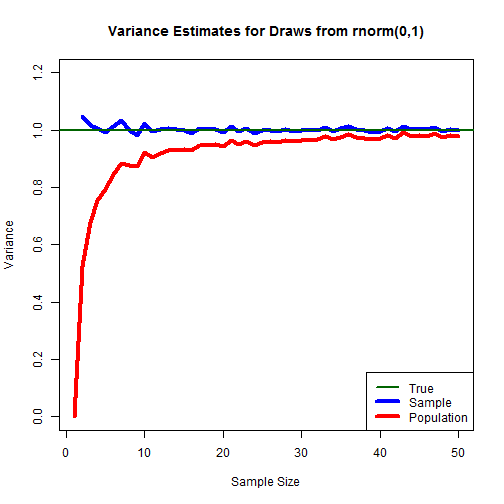
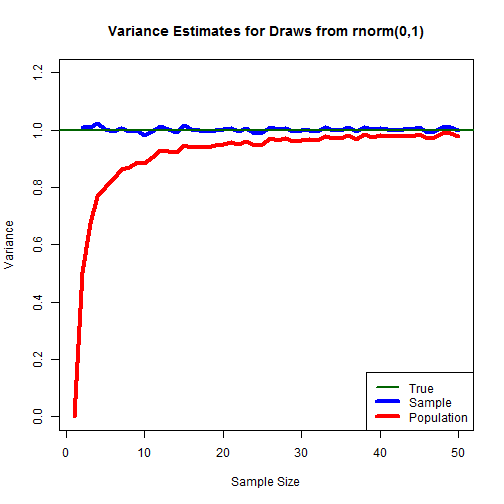
Fixed echo=FALSE

diff --git a/CheckSDPopSamp_v001.html b/CheckSDPopSamp_v001.html
@@ -221,6 +221,23 @@ myVarPop &lt;- rep(0,myMax)
 
 <p>Next we loop to pull 1:myMax draws, each taken myDraws number of times, and calculate the resulting standard deviations and variances on a population and sample basis.  </p>
 
+<pre><code class="r">for (intCtr in 1:myMax) {
+
+    for (intCtr2 in 1:myDraws) {
+        a &lt;- rnorm(intCtr,mean=0,sd=1)
+        sdSam[intCtr2] &lt;- sd(a)
+        sdPop[intCtr2] &lt;- sd(c(a,mean(a)))
+        varSam[intCtr2] &lt;- var(a)
+        varPop[intCtr2] &lt;- var(c(a,mean(a)))
+    }
+
+    mySDSam[intCtr] &lt;- mean(sdSam)
+    mySDPop[intCtr] &lt;- mean(sdPop)
+    myVarSam[intCtr] &lt;- mean(varSam)
+    myVarPop[intCtr] &lt;- mean(varPop)    
+}
+</code></pre>
+
 <p>Then, we graph the variance:  </p>
 
 <pre><code class="r">plot(x=1:intCtr,y=myVarSam,type=&quot;l&quot;,col=&quot;blue&quot;,ylim=c(0,1.2),lwd=4,
@@ -231,7 +248,7 @@ abline(h=1,col=&quot;dark green&quot;,lwd=2)
 legend(&quot;bottomright&quot;,legend=c(&quot;True&quot;,&quot;Sample&quot;,&quot;Population&quot;),col=c(&quot;dark green&quot;,&quot;blue&quot;,&quot;red&quot;),lwd=c(2,4,4))
 </code></pre>
 
[2 lines of base64/hex data omitted]
 
 <p>And then the standard deviation:  </p>
 
@@ -244,9 +261,26 @@ abline(h=1,col=&quot;dark green&quot;,lwd=2)
 legend(&quot;bottomright&quot;,legend=c(&quot;True&quot;,&quot;Sample&quot;,&quot;Population&quot;),col=c(&quot;dark green&quot;,&quot;blue&quot;,&quot;red&quot;),lwd=c(2,4,4))
 </code></pre>
 
[2 lines of base64/hex data omitted]
 
 <p>Next, we re-run the code for draws from runif(0,1):  </p>
+
+<pre><code class="r">for (intCtr in 1:myMax) {
+
+    for (intCtr2 in 1:myDraws) {
+        a &lt;- runif(intCtr,min=0,max=1)
+        sdSam[intCtr2] &lt;- sd(a)
+        sdPop[intCtr2] &lt;- sd(c(a,mean(a)))
+        varSam[intCtr2] &lt;- var(a)
+        varPop[intCtr2] &lt;- var(c(a,mean(a)))
+    }
+
+    mySDSam[intCtr] &lt;- mean(sdSam)
+    mySDPop[intCtr] &lt;- mean(sdPop)
+    myVarSam[intCtr] &lt;- mean(varSam)
+    myVarPop[intCtr] &lt;- mean(varPop)    
+}
+</code></pre>
 
 <p>Then, we graph the variance:  </p>
 
@@ -258,7 +292,7 @@ abline(h=.0833,col=&quot;dark green&quot;,lwd=2)
 legend(&quot;bottomright&quot;,legend=c(&quot;True&quot;,&quot;Sample&quot;,&quot;Population&quot;),col=c(&quot;dark green&quot;,&quot;blue&quot;,&quot;red&quot;),lwd=c(2,4,4))
 </code></pre>
 
[2 lines of base64/hex data omitted]
 
 <p>And then the standard deviation:  </p>
 
@@ -271,7 +305,7 @@ abline(h=.289,col=&quot;dark green&quot;,lwd=2)
 legend(&quot;bottomright&quot;,legend=c(&quot;True&quot;,&quot;Sample&quot;,&quot;Population&quot;),col=c(&quot;dark green&quot;,&quot;blue&quot;,&quot;red&quot;),lwd=c(2,4,4))
 </code></pre>
 
[2 lines of base64/hex data omitted]
 
 <p>Plainly, the corrected (sample) estimate works very well for calculating variance, and better than the uncorrected (population) estimate - though not perfect - for estimating standard deviation.  </p>
 

diff --git a/CheckSDPopSamp_v001.md b/CheckSDPopSamp_v001.md
@@ -26,6 +26,23 @@ myVarPop <- rep(0,myMax)
   
 Next we loop to pull 1:myMax draws, each taken myDraws number of times, and calculate the resulting standard deviations and variances on a population and sample basis.  
 
+```r
+for (intCtr in 1:myMax) {
+    
+    for (intCtr2 in 1:myDraws) {
+        a <- rnorm(intCtr,mean=0,sd=1)
+        sdSam[intCtr2] <- sd(a)
+        sdPop[intCtr2] <- sd(c(a,mean(a)))
+        varSam[intCtr2] <- var(a)
+        varPop[intCtr2] <- var(c(a,mean(a)))
+    }
+    
+    mySDSam[intCtr] <- mean(sdSam)
+    mySDPop[intCtr] <- mean(sdPop)
+    myVarSam[intCtr] <- mean(varSam)
+    myVarPop[intCtr] <- mean(varPop)    
+}
+```
 
 Then, we graph the variance:  
 
@@ -56,6 +73,23 @@ legend("bottomright",legend=c("True","Sample","Population"),col=c("dark green","
 
 Next, we re-run the code for draws from runif(0,1):  
 
+```r
+for (intCtr in 1:myMax) {
+    
+    for (intCtr2 in 1:myDraws) {
+        a <- runif(intCtr,min=0,max=1)
+        sdSam[intCtr2] <- sd(a)
+        sdPop[intCtr2] <- sd(c(a,mean(a)))
+        varSam[intCtr2] <- var(a)
+        varPop[intCtr2] <- var(c(a,mean(a)))
+    }
+    
+    mySDSam[intCtr] <- mean(sdSam)
+    mySDPop[intCtr] <- mean(sdPop)
+    myVarSam[intCtr] <- mean(varSam)
+    myVarPop[intCtr] <- mean(varPop)    
+}
+```
 
 Then, we graph the variance:  
 
